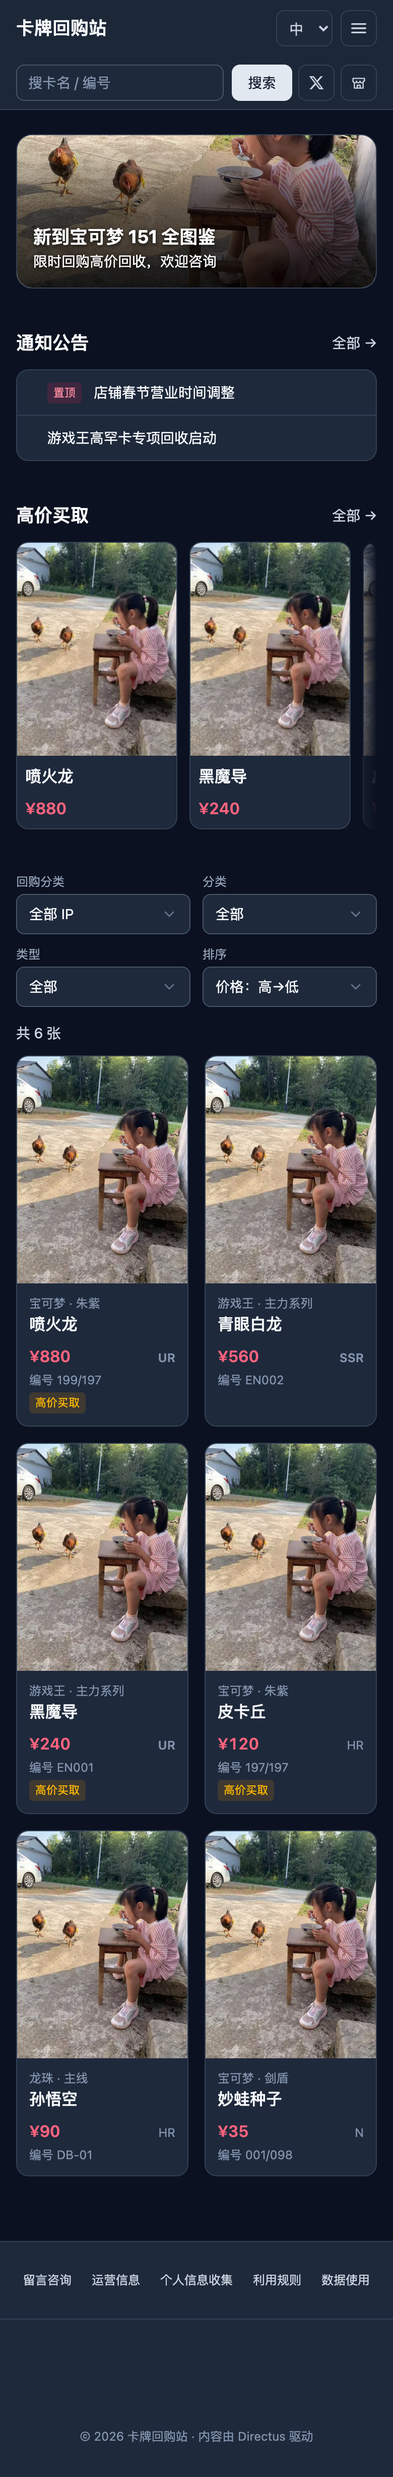
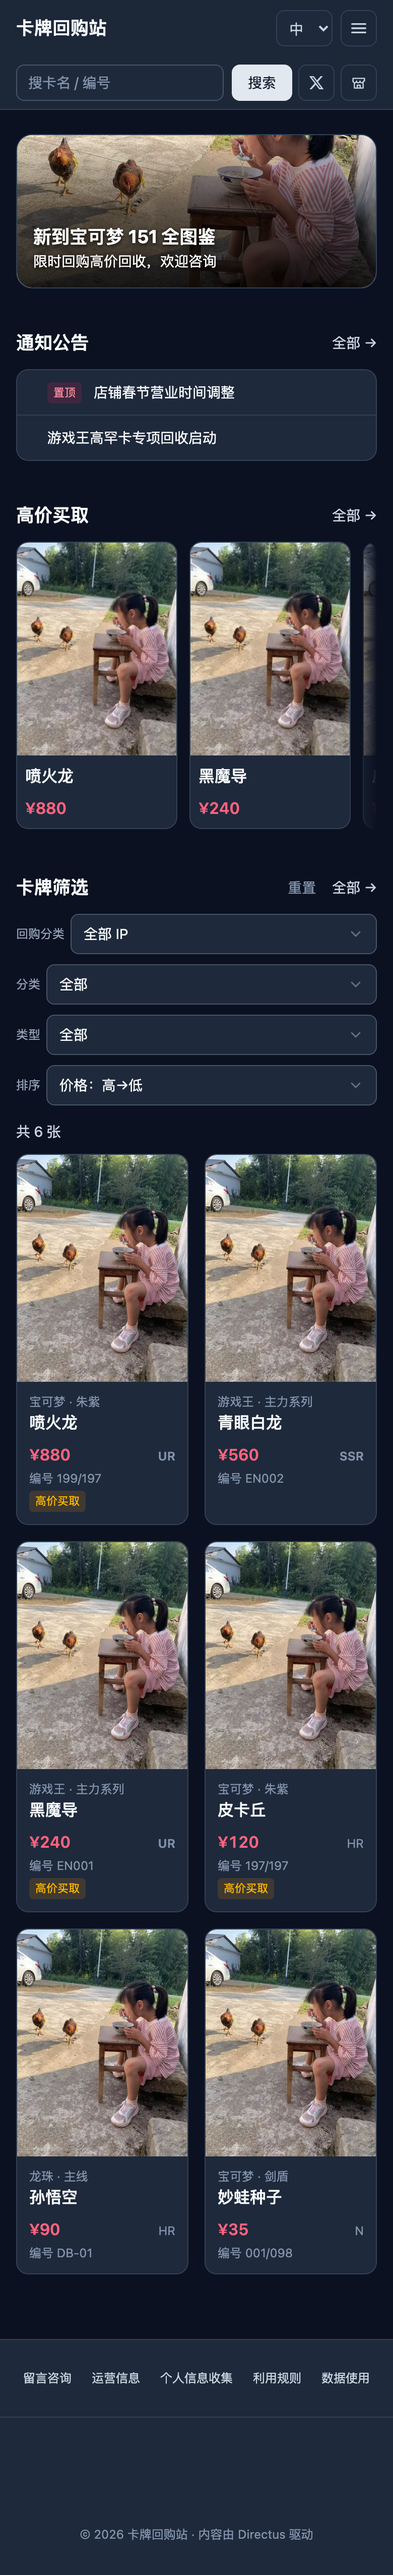
chore(scratch): 记录 rebase 到 master 后的合并结论与复验数据

diff --git a/.scratch/polish/verification.md b/.scratch/polish/verification.md
@@ -3,6 +3,13 @@
 分支 `feat/home-polish`，worktree `.worktrees/home-polish`。基线截图在
 `.scratch/visual-audit/shots/`（master），改动后截图在 `.scratch/polish/shots/`。
 
+> 合并说明：本分支开发期间 master 又推进了 3 个提交（`538212a` / `38363be` /
+> `061ab14`，改的是首页筛选区与 `CatalogFilters`）。已 rebase 到 `061ab14` 之上，
+> 冲突只有 `src/routes/{-$locale}.index.tsx` 一处（import 顺序），已解决。
+> master 带来的「重置」按钮与我原本在结果头加的「清空」重复，现已统一：
+> **整页重置 = 筛选区标题行的「重置」**（disabled 时不跳位），
+> **结果头只保留可逐个移除的 chips**。空结果面板的动作也改用它。
+
 ## 自动化检查
 
 | 检查 | 范围 | 结果 |
